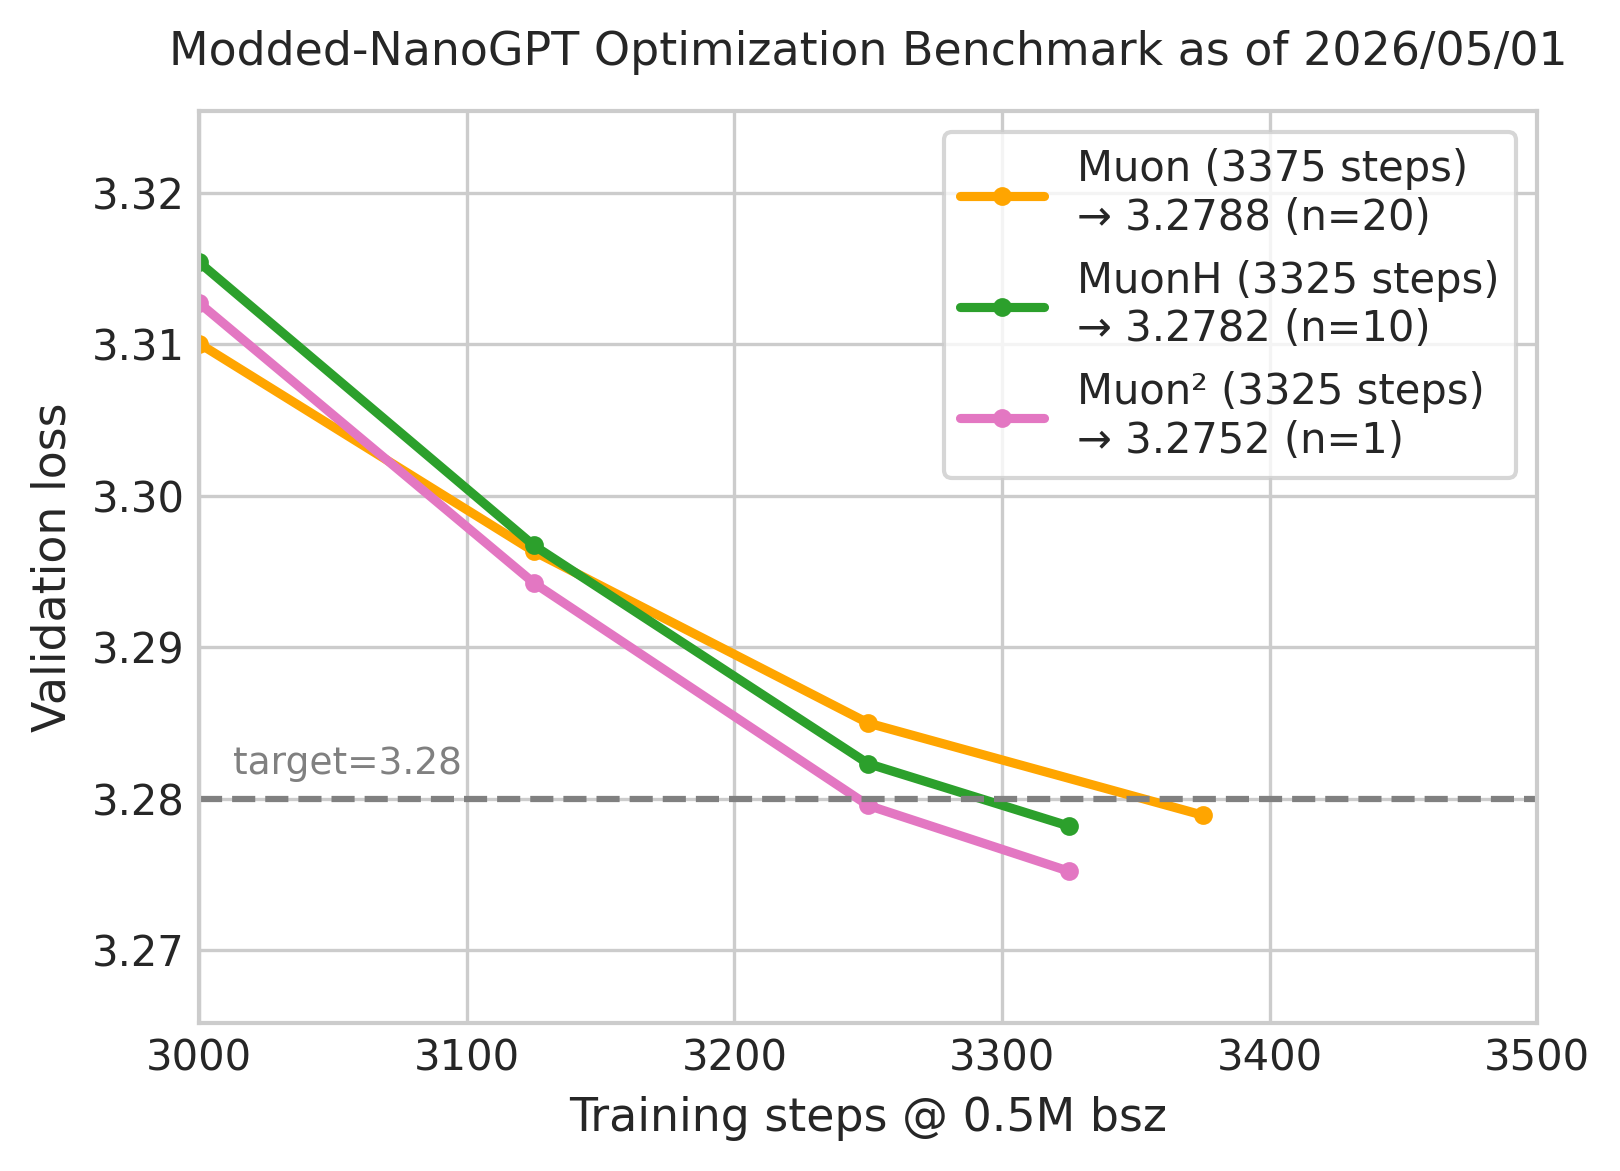
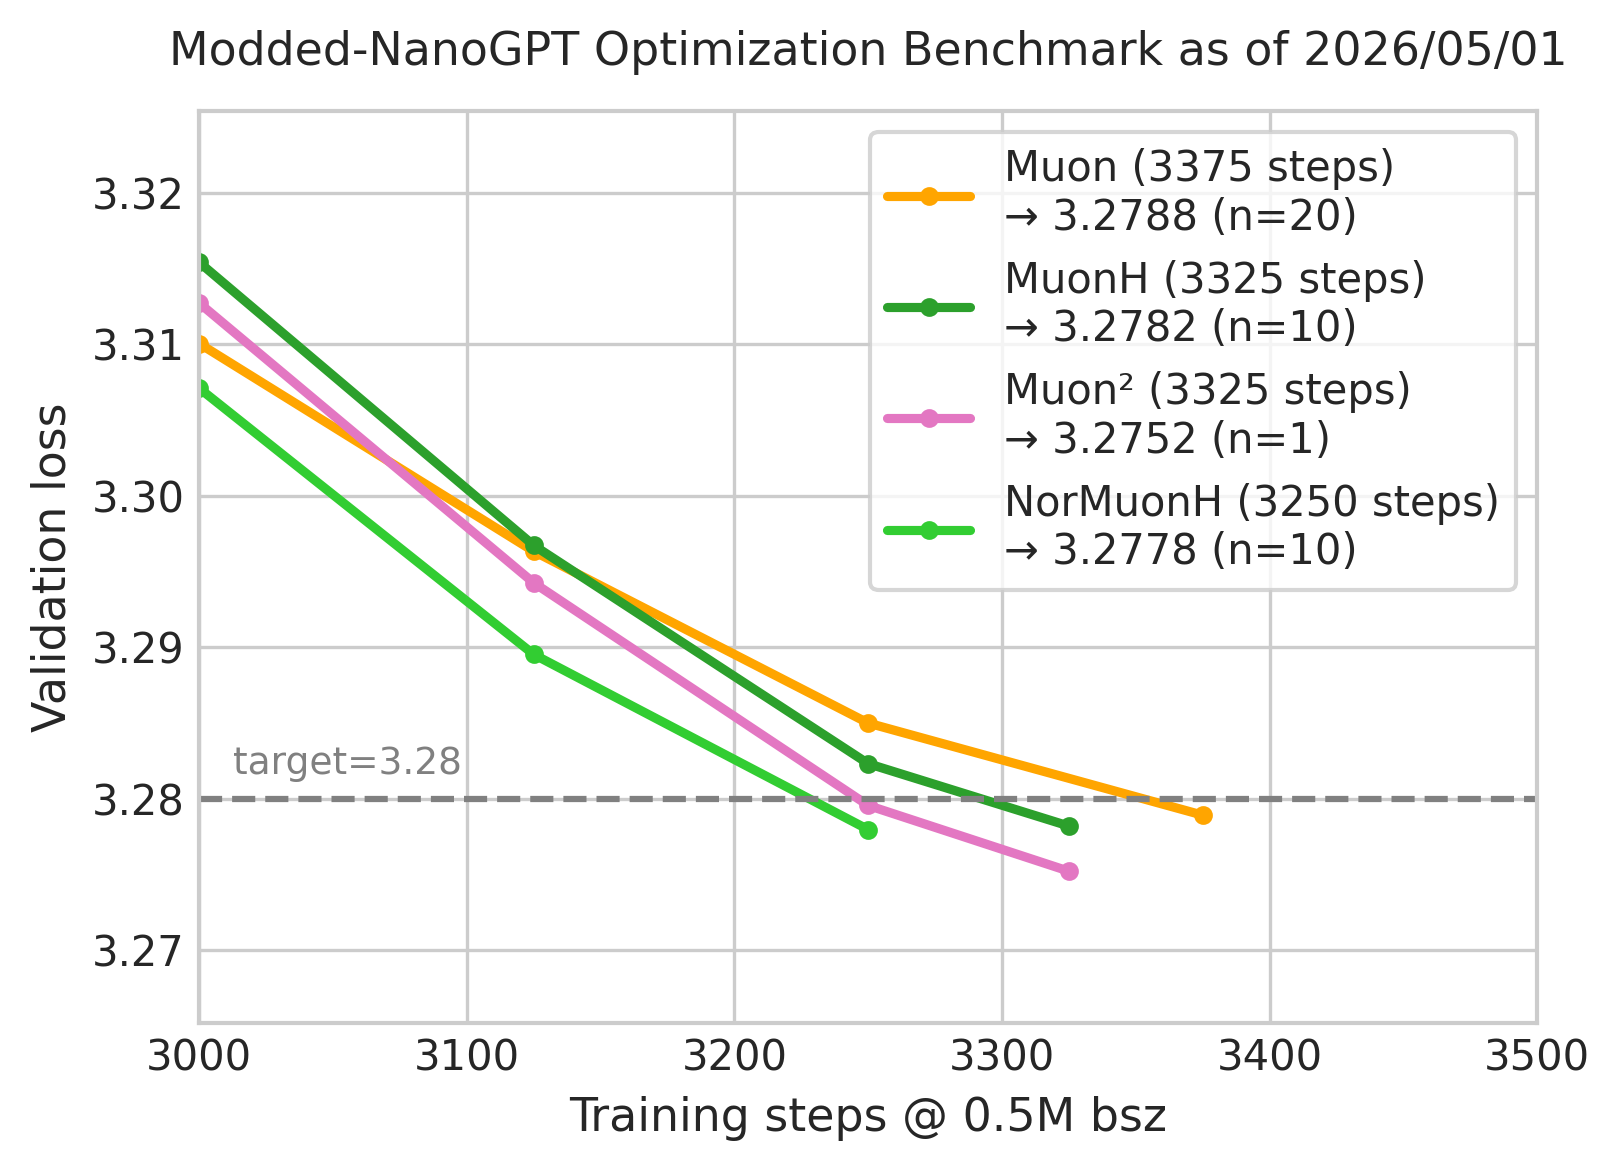
.

diff --git a/records/track_3_optimization/make_figures.py b/records/track_3_optimization/make_figures.py
@@ -10,11 +10,11 @@ logfiles = {
     # key: number in README results history
     # value: (label, color)
     6: ('Muon', '#ffa500'),
-    #2: ('AdamW', '#1f77b4'),
+    2: ('AdamW', '#1f77b4'),
     5: ('MuonH', '#2ca02c'),
-    #4: ('AdamH', '#9467bd'),
+    4: ('AdamH', '#9467bd'),
     7: ('Muon²', '#e377c2'),
-    #8: ('NorMuonH', '#32CD32'),
+    8: ('NorMuonH', '#32CD32'),
 }
 readme_rows = {}
 row_pattern = re.compile(
